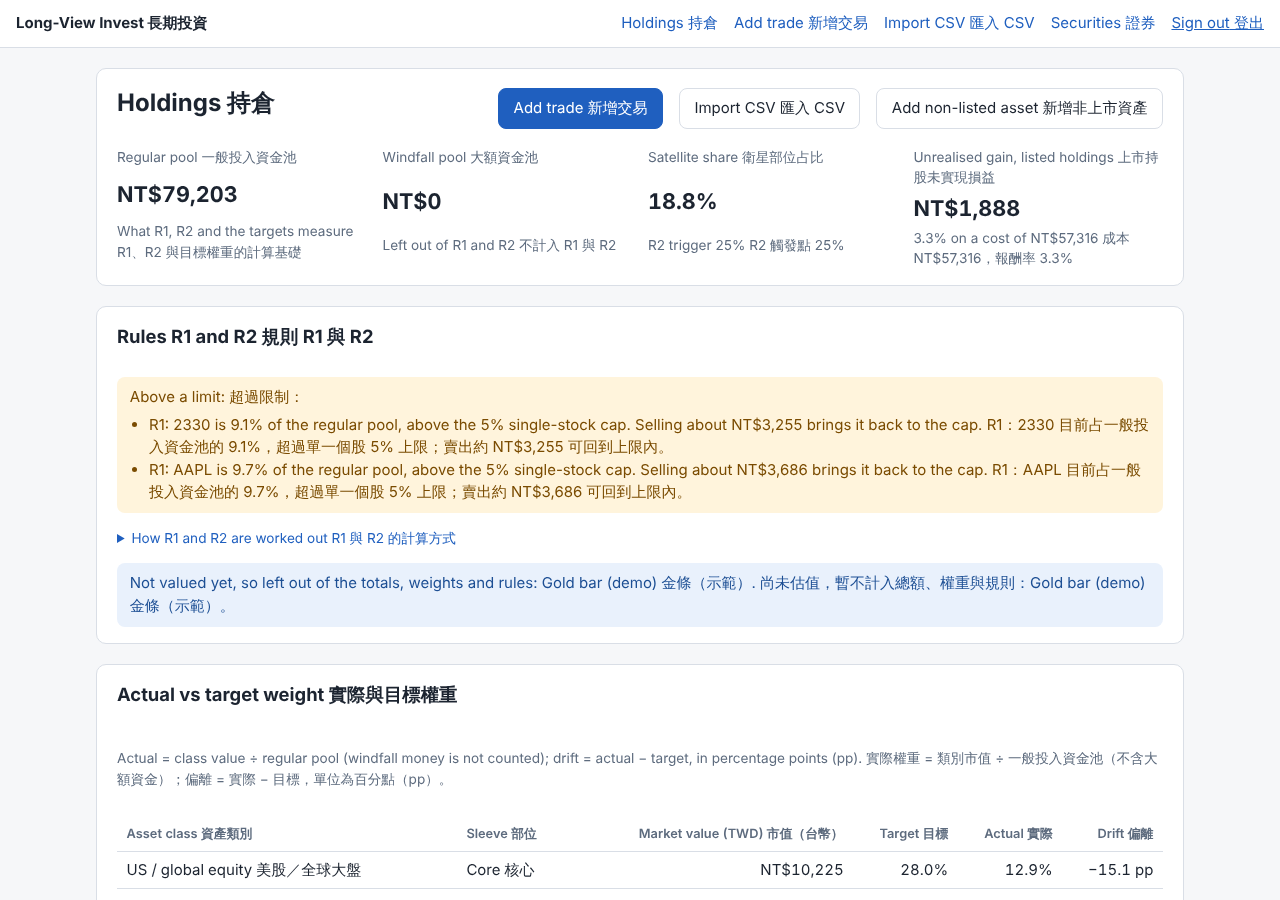
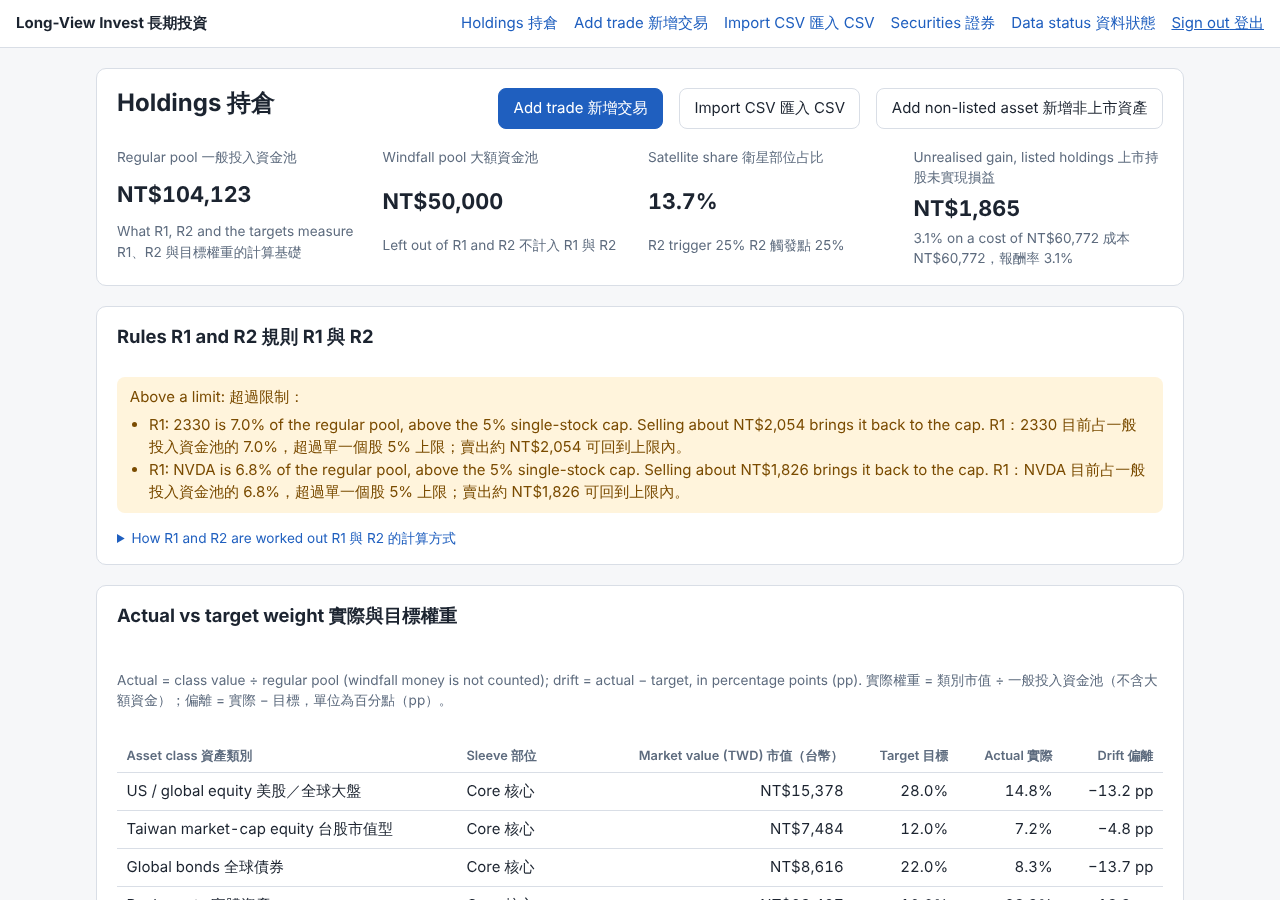
Run the nightly job in the e2e check; document step 4
- The e2e check now covers trade-date FX rates and the data status
  page, then runs the real nightly job against the stand-in twice (the
  second time as on GitHub Actions, checking its log names no ticker)
  and checks the app shows what it loaded. The stand-in gateway turns
  the secret key into service_role, as Supabase does.
- docs/nightly-job.md walks through the one-time setup: db push, the
  Supabase secret key, four GitHub secrets and a first run by hand.
- PRD Sections 6, 7 and 9 record the step 4 sources and decisions: the
  job runs in Actions rather than an Edge Function (2 s CPU limit on
  the free plan), Bank of Taiwan rates are the daily FX source, gold is
  the USD price at that rate, and AGGU now prices from iShares first.
- README status, features and screenshots updated.

Claude-Session: https://claude.ai/code/session_017YS6qWTrWDxK6iJxvtdga9

diff --git a/docs/nightly-job.md b/docs/nightly-job.md
@@ -1,0 +1,117 @@
+# 每夜價格排程 Nightly price job
+
+第一階段第 4 步（PRD 第 11 節）：每晚自動把收盤價、臺灣銀行匯率和金價寫進你的 Supabase，App 用它們計算市值。每次執行的結果記在 `job_runs` 資料表，App 的「資料狀態」頁看得到。
+
+Phase 1, step 4: every night GitHub Actions loads daily closes, Bank of Taiwan exchange rates and the gold price into Supabase. Each run is recorded in `job_runs` and shown on the app's Data status page.
+
+## 它怎麼運作 How it works
+
+- **時間**：每晚台北時間約 22:23（GitHub 有時會晚幾分鐘才開始）。這時台股已收盤、臺銀已公布當天匯率，前一個美股交易日的收盤價與 AGGU 的淨值也都已公布。
+- **在哪裡跑**：GitHub Actions，也就是 GitHub 提供的雲端電腦，公開 repo 免費。排程設定在 `.github/workflows/nightly.yml`，程式在 `scripts/nightly.ts`。
+- **抓多久的資料**：每晚重新載入最近 3 年（`config` 表 `var` 的 `lookback_years`，風險值卡片要用）的每日收盤價。因為每次除息後，過去的「還原收盤價」會整段改變，整段重抓最簡單也最正確。第一次執行要下載 AGGU 的 25 MB 基金檔案取得歷史淨值，會比較久；之後每晚約 1–2 分鐘。
+- **失敗時**：App 沿用最後一次成功載入的價格；連續 2 晚失敗（`rules` 表 `DATA_FAILURE` 的門檻）就在持倉頁顯示警示。推播通知要等第 10 步。
+
+It runs at about 22:23 Taipei time, reloads the last three years of closes each night (dividend adjustments change past adjusted closes), keeps the last good prices when a night fails, and flags two misses in a row.
+
+### 資料來源 Sources
+
+每種資料都有一個備援來源（PRD 第 9 節「免費資料中斷」）。
+
+| 資料 Data | 主要來源 Primary | 備援 Fallback |
+| --- | --- | --- |
+| 台股、台股 ETF | FinMind 每日收盤價，加上除權息結果算出還原收盤價 | 證交所 OpenAPI（只有最新一天） |
+| 美股、美國 ETF | FinMind 美股價格（含還原收盤價） | Alpha Vantage，只補缺的日子（選填） |
+| AGGU（倫敦） | iShares 官網的每日淨值 | Alpha Vantage AGGU.LON 週線（選填） |
+| 美元匯率 USD/TWD | 臺灣銀行牌告（經 FinMind），即期買入與賣出的中間值 | FRED（每週公布、晚幾天） |
+| 黃金（台幣） | 國際金價（FinMind，每盎司美元）× 當天臺銀美元匯率 | 你在 App 手動輸入的估值 |
+
+黃金每克台幣價格 = 每盎司台幣價格 ÷ 31.1035。臺銀的黃金牌價網頁會擋程式（第 1 步資料來源檢查），所以改用國際金價換算；銀行實際回收價通常略低一點。
+
+## 設定步驟 Setup（只需一次，約 15 分鐘）
+
+請在這個 PR 合併之後再做。
+
+### 1. 更新資料庫 Update the database
+
+在 Mac 的 Terminal、`invest` 資料夾執行：
+
+```bash
+git checkout main && git pull
+npm install
+npx supabase db push
+npm run check:supabase
+```
+
+- `npx supabase db push` 會列出 **2 個新的 migration**，輸入 `Y` 套用：
+  - `job_runs`：記錄每晚排程結果的資料表。只有你看得到；只有排程能寫入。
+  - `fx_trade_date_rates`：在 `config` 表的 `fx_rate_check` 加上 `max_age_days`（10 天）。之後新增交易與 CSV 匯入會預設帶入**交易日當天**的匯率；當天沒有（週末、假日）就往前找，最多 10 天。這個修改也會出現在 App 的修改紀錄裡。
+- `npm run check:supabase`：應該看到 **25 項全部 ✅**（多了 `job_runs`，陌生人一樣讀不到）。
+
+`db push` adds the `job_runs` table and the trade-date FX setting; the check then shows 25 passes.
+
+### 2. 複製 Supabase 的 secret key
+
+排程要寫入價格，需要 Supabase 的 **secret key**。它可以略過 row-level security、讀寫所有資料，所以**只放在 GitHub 的 secret 設定**：不要貼進 `NEXT_PUBLIC_` 開頭的變數、Vercel、聊天訊息或任何會進 git 的檔案。
+
+1. 打開 <https://supabase.com/dashboard>，進入你的專案，點左下 **Project Settings → API Keys**。
+2. 找到 **Secret keys** 區塊。每個專案都有一把名為 `default` 的 key；建議另外新增一把只給排程用（新增按鈕，名稱填 `github_nightly`）。之後如果懷疑外洩，只要刪掉這一把，不影響其他東西。介面不同找不到新增按鈕時，用 `default` 那把也可以。
+3. 按該把 key 旁的複製圖示（以 `sb_secret_` 開頭），下一步馬上貼上。
+
+### 3. 把值存進 GitHub secrets
+
+1. 打開 <https://github.com/GoatC/Invest>，點上方 **Settings** → 左側 **Secrets and variables → Actions** → **Secrets** 分頁 → **New repository secret**。
+2. 一次新增一個。**Name** 要完全照抄（大寫、底線），**Secret** 貼上值，按 **Add secret**：
+
+| Name | 值 Value | 從哪裡拿 Where from |
+| --- | --- | --- |
+| `SUPABASE_URL` | `https://<project-ref>.supabase.co` | 和 `.env.local` 裡的 `NEXT_PUBLIC_SUPABASE_URL` 一樣 |
+| `SUPABASE_SECRET_KEY` | `sb_secret_...` | 第 2 步複製的 |
+| `FINMIND_TOKEN` | FinMind 的 token | `.env.local` 裡同名的那一行（第 1 步資料來源檢查用過） |
+| `ALPHAVANTAGE_API_KEY` | Alpha Vantage 的 key | 選填：只在 FinMind 或 iShares 失敗時當備援 |
+
+- 存進去之後 GitHub 不會再顯示內容（只能覆蓋），執行紀錄裡也會自動遮住。
+- repo 是公開的，但 secrets 不公開：只有這個 repo 自己的排程用得到，別人 fork 你的 repo 也拿不到。
+
+### 4. 手動執行一次 Run it once by hand
+
+1. 在 GitHub repo 上方點 **Actions** 分頁。
+2. 左側選 **Nightly prices 每夜價格** → 右邊 **Run workflow** → Branch 選 `main` → 按綠色的 **Run workflow**。
+3. 等 2–5 分鐘（第一次最久）。綠色勾勾＝成功；紅色叉叉＝失敗，點進去看「Load prices, FX rates and gold」那一步的訊息，對照下面的問題排除。
+
+公開 repo 的執行紀錄任何人都看得到，所以紀錄裡只寫數量（例如「載入 13 檔證券、3 組匯率」），不寫你追蹤哪些代號；明細只在 App 裡。
+
+### 5. 在 App 確認 Check in the app
+
+在 Mac 上執行 `npm run dev`，登入後：
+
+- 上方選單 **資料狀態**：應該寫著「每夜價格排程最後一次於台北時間 … 執行，資料全部載入」，每檔證券都有收盤日與來源。
+- **持倉**：市值下方顯示收盤日；實體黃金改以每夜金價計算，不再標 ＊。
+- **新增交易**：選了美股代號後，匯率會自動帶入交易日當天的匯率，下方會寫出是哪一天的匯率。你自己輸入的匯率不會被覆蓋。
+
+之後每晚自動執行，不需要再做任何事。
+
+Run it once from the Actions tab, then check the Data status page: every security should show a recent close and its feed.
+
+## 平常要注意的事 Things to know
+
+- **失敗通知**：失敗的執行在 Actions 分頁會是紅色，GitHub 也可能寄 email 通知；但請以 App 為準：連續 2 晚失敗時，持倉頁會顯示警示（門檻在 `rules` 表 `DATA_FAILURE` 的 `failures`，可以自己改）。
+- **60 天規則**：公開 repo 如果連續 60 天沒有任何新的 commit，GitHub 會自動暫停排程。這時 App 會顯示「已連續 N 晚未成功」；到 **Actions → Nightly prices 每夜價格** 按 **Enable workflow** 就會恢復。
+- **Supabase 不會被暫停**：免費專案約 7 天沒有活動會被暫停；每晚的讀寫就是活動，所以只要排程在跑，專案就不會睡著。
+- **費用**：GitHub Actions 對公開 repo 免費；FinMind 免費額度每小時 600 次，每晚大約用 20 次。
+- **為什麼不用 Supabase Edge Function**：PRD 原本規劃由 GitHub Actions 呼叫 Edge Function，但免費方案的 Edge Function 每次只能用 2 秒 CPU、最長 150 秒，不夠處理 3 年的價格和 AGGU 的 25 MB 檔案。改成直接在 GitHub Actions 執行，每次都有紀錄可查，也和測試用的是同一套程式。代價是 secret key 要存在 GitHub secrets（加密保存）。這個決定記在 PRD 第 6、9 節。
+
+## 問題排除 Troubleshooting
+
+| 看到的訊息 Message | 原因與處理 Fix |
+| --- | --- |
+| `Missing SUPABASE_URL, …` | 第 3 步的 secret 漏了或名稱打錯，重新新增 |
+| `reading the database: Invalid API key` | `SUPABASE_SECRET_KEY` 貼錯：要 `sb_secret_` 開頭，不是 publishable key |
+| `job_runs` 找不到資料表，或持倉頁寫「無法讀取每夜排程狀態」 | 第 1 步的 `npx supabase db push` 還沒執行 |
+| `FinMind …: Your level is register …`、額度用完 | FinMind token 錯了，或這一小時的額度用完；隔天會自動重試 |
+| 資料狀態頁某一檔一直「尚未載入」 | 代號可能和 FinMind 用的不同（例如美股 ETF 已下市）；把資料狀態頁的錯誤訊息貼給 Claude |
+
+## 在 Mac 上手動執行 Run it on your Mac (optional)
+
+平常不需要，用上面第 4 步的按鈕即可。真的要在 Mac 上跑：在 `.env.local` 加上 `SUPABASE_SECRET_KEY=sb_secret_...`（`FINMIND_TOKEN` 已經在裡面），再執行 `npm run nightly`。`.env.local` 不會進 git，但用完可以把那一行刪掉。
+
+`npm run nightly` runs the job with `.env.local`, which then needs `SUPABASE_SECRET_KEY`; locally it prints every ticker, while on GitHub Actions it prints counts only.

diff --git a/README.md b/README.md
@@ -36,24 +36,28 @@ Built phase by phase from [the product spec](docs/PRD.md); a phase starts only a
 | 1. Check every free data source 免費資料來源檢查 | ✅ [report 報告](reports/source-check/report.md) |
 | 2. Database schema, row-level security, demo data 資料庫結構、權限、示範資料 | ✅ |
 | 3. Holdings entry and broker CSV import 持倉登錄與券商 CSV 匯入 | ✅ |
-| 4. Nightly prices and FX 每夜價格與匯率 | next 下一步 |
-| 5–11. Performance, allocation donuts, VaR, compounding calculator, rules engine and proposals, Web Push and the weekly dashboard, fee and tax drag 績效、配置圓餅圖、風險值、複利計算機、規則引擎與提案、推播與每週儀表板、費用與稅務 | planned 規劃中 |
+| 4. Nightly prices and FX 每夜價格與匯率 | ✅ [setup 設定](docs/nightly-job.md) |
+| 5. NAV snapshots and F18 performance 淨值快照與真實績效 | next 下一步 |
+| 6–11. Allocation donuts, VaR, compounding calculator, rules engine and proposals, Web Push and the weekly dashboard, fee and tax drag 配置圓餅圖、風險值、複利計算機、規則引擎與提案、推播與每週儀表板、費用與稅務 | planned 規劃中 |
 
 Phases 2 and 3 add security analysis (CAPM, valuation, regression, red flags), the windfall planner, Monte Carlo, the efficient frontier, stress tests and Brinson attribution. 第二、三階段加入證券分析、大額資金分批、蒙地卡羅、效率前緣、壓力測試與 Brinson 歸因。
 
 ## What works today 目前的功能
 
 - **Holdings 持倉總覽**: regular and windfall pools, R1 / R2 status with the trim each needs, actual vs target weight per asset class, and every position at weighted-average cost with its TWD value and unrealised gain. The R1 / R2 figures expand to show their formulas and inputs, and the other figures are defined under their tables. 一般與大額資金池、R1／R2 狀態與所需減碼金額、各資產類別的實際與目標權重、每檔持股的平均成本、台幣市值與未實現損益；R1／R2 的數字可展開查看公式與輸入值，其他數字的定義寫在表格下方。
-- **Trade entry 交易登錄**: currency and FX rate filled in from the security, a live R1 / R2 preview that warns without blocking, and a refusal when a sell exceeds the holding. 依證券自動帶入幣別與匯率，即時預覽 R1／R2（只提醒不阻擋），賣出超過持有數量時拒絕儲存。
-- **Broker CSV import 券商 CSV 匯入**: UTF-8 or Big5 files, title lines above the header, ROC (民國) dates, column mapping remembered per broker, and trades already saved are skipped. 支援 UTF-8 與 Big5、標題列在上方的檔案、民國日期；欄位對應依券商記住，已存在的交易自動略過。
-- **Non-listed assets 非上市資產**: physical gold in grams, savings and money-market balances in TWD. 實體黃金以克數、活存與貨幣基金以台幣餘額記錄。
+- **Trade entry 交易登錄**: currency filled in from the security and the FX rate from the trade date's Bank of Taiwan rate, a live R1 / R2 preview that warns without blocking, and a refusal when a sell exceeds the holding. 依證券自動帶入幣別、依交易日帶入臺灣銀行匯率，即時預覽 R1／R2（只提醒不阻擋），賣出超過持有數量時拒絕儲存。
+- **Broker CSV import 券商 CSV 匯入**: UTF-8 or Big5 files, title lines above the header, ROC (民國) dates, column mapping remembered per broker, each row's trade-date FX rate when the file has none, and trades already saved are skipped. 支援 UTF-8 與 Big5、標題列在上方的檔案、民國日期；欄位對應依券商記住，檔案沒有匯率時帶入各列交易日的匯率，已存在的交易自動略過。
+- **Non-listed assets 非上市資產**: physical gold in grams, valued nightly at the gold price in TWD, and savings and money-market balances in TWD. 實體黃金以克數記錄、每夜以台幣金價估值；活存與貨幣基金以台幣餘額記錄。
+- **Nightly prices 每夜價格**: a GitHub Actions job loads daily closes (dividend-adjusted), Bank of Taiwan exchange rates and the gold price, with one fallback feed each; the Data status page shows every run and the newest close per security, and two missed nights in a row raise an alert. GitHub Actions 每夜載入每日收盤價（含除息還原）、臺灣銀行匯率與金價，每種資料都有備援來源；「資料狀態」頁列出每次執行與各證券最新收盤價，連續兩晚失敗即顯示警示。
 - **Securities and edit history 證券與修改紀錄**: every entry can be edited or deleted, and the database logs each change, deleted entries included. 每筆資料都能修改或刪除，資料庫會記錄每次變更，包含已刪除的資料。
 
 ![CSV import preview: every row explained, unknown tickers can be added on the spot](docs/images/import-preview.png)
 
+![Data status after a nightly run: the newest close per security, its date and feed](docs/images/data-status.png)
+
 ## How it is built 技術架構
 
-- **Next.js** (App Router, server actions) with **Supabase** (Postgres, Auth, Data API). Nightly jobs will run on **GitHub Actions**, and alerts will use **Web Push**. Next.js 搭配 Supabase；每夜排程使用 GitHub Actions，推播使用 Web Push。
+- **Next.js** (App Router, server actions) with **Supabase** (Postgres, Auth, Data API). Nightly jobs run on **GitHub Actions** and write with a secret key kept in GitHub's encrypted secrets; alerts will use **Web Push**. Next.js 搭配 Supabase；每夜排程在 GitHub Actions 執行，以存放在 GitHub 加密 secrets 的金鑰寫入；推播使用 Web Push。
 - **Single owner, enforced by the database**: row-level security on every table lets only the one owner account in; strangers holding the public key are refused, which `npm run check:supabase` verifies from outside. 由資料庫保證只有一位擁有者：每張表都開啟 row-level security；持有公開金鑰的陌生人一律被拒，可用 `npm run check:supabase` 從外部驗證。
 - **Money in trade currency plus the day's FX rate, reported in TWD.** 金額以交易幣別加當日匯率儲存，以台幣呈現。
 - **Free data only**, checked source by source in step 1. 只使用免費資料，第 1 步已逐一檢查。
@@ -64,6 +68,7 @@ Phases 2 and 3 add security analysis (CAPM, valuation, regression, red flags), t
 
 1. [Set up Supabase](docs/supabase-setup.md) once: create the project, apply the schema, create the owner account. 先[設定 Supabase](docs/supabase-setup.md)：建立專案、套用資料庫結構、建立擁有者帳號。
 2. [Run the app](docs/running-the-app.md): `npm install`, then `npm run dev`. 再[執行 App](docs/running-the-app.md)。
+3. [Turn on the nightly job](docs/nightly-job.md): four GitHub secrets, then one run by hand. 最後[啟用每夜排程](docs/nightly-job.md)：設定 4 個 GitHub secrets，再手動執行一次。
 
 ## Tests 測試
 
@@ -71,18 +76,19 @@ Phases 2 and 3 add security analysis (CAPM, valuation, regression, red flags), t
 | --- | --- |
 | `npm test` | Model, CSV and form unit tests with the spec's acceptance values, plus the whole schema and its row-level security rebuilt in an in-memory Postgres (PGlite) 單元測試（含規格書驗收值），以及在記憶體 Postgres 中重建整個資料庫並檢查權限 |
 | `npm run typecheck` | TypeScript across the app, scripts and tests 型別檢查 |
-| `npm run test:e2e` | The built app against a local Supabase stand-in, driven in Chromium ([details](tests/e2e/README.md)) 以 Chromium 實際操作連到本機 Supabase 替身的 App |
+| `npm run test:e2e` | The built app against a local Supabase stand-in, driven in Chromium, then the real nightly job against the same stand-in ([details](tests/e2e/README.md)) 以 Chromium 實際操作連到本機 Supabase 替身的 App，再對同一個替身執行真正的每夜排程 |
 
 ## Repository layout 專案結構
 
 | Path 路徑 | Contents 內容 |
 | --- | --- |
 | `app/` | Pages and server actions 頁面與伺服器動作 |
-| `lib/models/` | Positions, valuation and the R1 / R2 rules, as pure functions 持倉、估值與 R1／R2 規則（純函式） |
+| `lib/models/` | Positions, valuation, trade-date FX, data health and the R1 / R2 rules, as pure functions 持倉、估值、交易日匯率、資料狀態與 R1／R2 規則（純函式） |
 | `lib/csv/` | Statement reading, column mapping and the import plan 對帳單讀取、欄位對應與匯入計畫 |
 | `supabase/migrations/` | Schema, row-level security, reference data and change logs 資料庫結構、權限、參考資料與變更紀錄 |
 | `supabase/seed.sql` | Demo data for local use only 僅供本機使用的示範資料 |
-| `scripts/` | Data-source check and the outside-in Supabase check 資料來源檢查與 Supabase 外部檢查 |
+| `scripts/` | The nightly job and its feeds, the data-source check and the outside-in Supabase check 每夜排程與資料來源程式、資料來源檢查與 Supabase 外部檢查 |
+| `.github/workflows/` | The nightly schedule 每夜排程設定 |
 | `docs/` | Product spec and runbooks 產品規格與操作說明 |
 
 ## Data and privacy 資料與隱私

diff --git a/docs/running-the-app.md b/docs/running-the-app.md
@@ -20,7 +20,7 @@ npm run check:supabase
 - `npx supabase db push`：會列出 **2 個新的 migration**，輸入 `Y` 套用：
   - `latest_quotes`：「每檔最新價格」與「每個幣別最新匯率」兩個檢視表（view），持倉頁用它們計算市值。
   - `fx_rate_check`：匯率打錯字的警示門檻（預設 20%），存在 `config` 表，之後可以自己改。
-- `npm run check:supabase`：應該看到 **24 項全部 ✅**（比上次多了 2 個 view，陌生人同樣讀不到）。如果出現「找不到資料表，請先執行 db push」，代表上一行還沒成功。
+- `npm run check:supabase`：應該看到 **24 項全部 ✅**（比上次多了 2 個 view，陌生人同樣讀不到；第 4 步之後是 25 項）。如果出現「找不到資料表，請先執行 db push」，代表上一行還沒成功。
 
 `db push` adds two views for the newest price and FX rate, and the FX typo-check setting; the check then shows 24 passes.
 
@@ -42,16 +42,16 @@ Run `npm run dev`, open http://localhost:3000 and sign in with your Supabase acc
 
 持倉頁一開始是空的：示範資料只用在測試，不會送到你的專案。
 
-- **新增交易**：輸入代號後，幣別與最近一筆匯率會自動帶入；匯率請改成券商對帳單上的成交匯率。市場與部位（核心／衛星）由證券自動帶入。
+- **新增交易**：輸入代號後，幣別與交易日當天的匯率會自動帶入（每夜排程啟用後；之前是最近一筆匯率）；對帳單上有券商成交匯率時，請改成那個匯率。市場與部位（核心／衛星）由證券自動帶入。
   - 找不到代號：按「找不到？新增證券」，填名稱、市場、產品類別與資產類別後儲存，會回到新增交易。
   - 儲存前會即時檢查 R1（單一個股超過一般資金池 5%）與 R2（衛星部位超過 25%）：違反時只提醒，不會阻擋。
   - 賣出數量超過當時持有數量會被拒絕，通常代表漏記了一筆買進。
-- **黃金與現金**：按「新增非上市資產」。實體黃金以克數輸入，可填每克金價自動算出估值；高利活存與貨幣基金以台幣餘額輸入。
+- **黃金與現金**：按「新增非上市資產」。實體黃金以克數輸入；每夜排程啟用後，持倉頁會以每夜金價自動計算市值，表單裡的估值只在還沒有金價時使用。高利活存與貨幣基金以台幣餘額輸入。
 - **匯入 CSV**：
   1. 從券商網站下載成交明細，存成 CSV。
   2. 在「匯入 CSV」頁填券商名稱、選擇檔案。Big5 編碼、檔案上方的標題列都會自動判斷。
   3. 檢查欄位對應與每一列的預覽：股利、合計列會略過並說明原因；已經存在的交易會標示「已存在」，不會重複匯入。
-  4. 外幣交易如果檔案裡沒有匯率欄，請在「沒有匯率的列使用的匯率」填一個匯率。
+  4. 外幣交易如果檔案裡沒有匯率欄：「沒有匯率的列使用的匯率」留空，會帶入每一列交易日的匯率（匯率下方顯示是哪一天的）；也可以填一個匯率套用到整份檔案。
   5. 檔案裡有還沒新增的代號時，點「新增 XXX」（在新分頁開啟）新增後，回來按「重新檢查」。
   6. 按「匯入」。欄位對應會依券商名稱記住，下次選同一家券商就會自動套用。
 - **修改與刪除**：持倉頁最下方的交易紀錄、非上市資產都有「修改」連結；每次修改都留下紀錄，顯示在該筆資料頁面的最下方。
@@ -60,9 +60,9 @@ Add trades by hand or import a broker CSV (the column mapping is remembered per 
 
 ## 補充 Notes
 
-- 標著 ＊ 的金額是估計值：每夜價格排程（第一階段第 4 步）上線前，市值以你最近一筆交易的價格與匯率估算；黃金以你最後輸入的估值計算。
+- 標著 ＊ 的金額是估計值：每夜排程還沒載入的證券或幣別，暫以你最近一筆交易的價格與匯率估算；還沒有金價時，黃金以你最後輸入的估值計算。每夜排程的設定見 [每夜價格排程](nightly-job.md)。
 - R1／R2 的門檻來自 `rules` 表，匯率警示門檻來自 `config` 表的 `fx_rate_check`；都能在 Supabase 的 Table Editor 修改，不需要改程式。
 - 只有登入後的你看得到資料；畫面顯示「無法從資料庫讀取」時，多半是程式更新後還沒執行 `npx supabase db push`。
 - 如果 `npm run dev` 顯示 Node.js 版本太舊，請到 <https://nodejs.org> 安裝 LTS 版本後重開 Terminal。
 
-Figures marked * are estimates until the nightly price job (Phase 1, step 4) runs. Thresholds live in the `rules` and `config` tables, never in code. A "could not read" page usually means `npx supabase db push` is still to be run.
+Figures marked * are estimates until the nightly price job ([setup](nightly-job.md)) has loaded their price. Thresholds live in the `rules` and `config` tables, never in code. A "could not read" page usually means `npx supabase db push` is still to be run.

diff --git a/tests/e2e/README.md b/tests/e2e/README.md
@@ -4,9 +4,12 @@
 migrations and the demo seed, and walks through it in Chromium: sign-in, the holdings view and its
 R1 / R2 figures, adding, editing and deleting a trade, a refused oversized sell, gold and cash
 balances, adding a security, a Big5 broker-statement import (including an unknown ticker and a
-second import of the same file), a phone-width check of every page, and sign-out.
+second import of the same file), trade-date FX rates, the data status page, a phone-width check
+of every page, and sign-out. With a `FINMIND_TOKEN` in the environment it then runs the real
+nightly job (`scripts/nightly.ts`, live feeds) against the stand-in twice, the second time as on
+GitHub Actions, and checks what the app shows; `E2E_NIGHTLY=0` skips that part.
 
-`npm run test:e2e` 會建置 App，連到載入資料庫遷移與示範資料的本機 Supabase 替身，並以 Chromium 實際操作一遍：登入、持倉總覽與 R1／R2 數字、新增／修改／刪除交易、拒絕超賣、黃金與現金餘額、新增證券、Big5 券商對帳單匯入（含未知代號與重複匯入），以及手機寬度檢查與登出。
+`npm run test:e2e` 會建置 App，連到載入資料庫遷移與示範資料的本機 Supabase 替身，並以 Chromium 實際操作一遍：登入、持倉總覽與 R1／R2 數字、新增／修改／刪除交易、拒絕超賣、黃金與現金餘額、新增證券、Big5 券商對帳單匯入（含未知代號與重複匯入）、交易日匯率、資料狀態頁，以及手機寬度檢查與登出。環境變數有 `FINMIND_TOKEN` 時，接著以真實資料對替身執行兩次每夜排程（第二次模擬 GitHub Actions），並檢查 App 顯示的結果；設 `E2E_NIGHTLY=0` 可略過。
 
 ## What the stand-in is 替身的組成
 
@@ -18,10 +21,12 @@ on the machine, without Docker:
 | Database | PostgreSQL 16, with `stand-in/bootstrap.sql` creating the roles a Supabase project starts with |
 | Auth | Supabase Auth (GoTrue) `v2.177.0`, the release binary |
 | Data API | PostgREST `v12.2.3`, the release binary |
-| Gateway | `stand-in/gateway.mjs`: routes `/auth/v1` and `/rest/v1`, and turns the publishable key into the anon role |
+| Gateway | `stand-in/gateway.mjs`: routes `/auth/v1` and `/rest/v1`, and turns the publishable key into the anon role and the secret key into service_role |
 
-Every run uses a fresh database, a new random JWT secret, publishable key and owner password, and
-deletes the database at the end. Nothing touches the hosted project.
+Every run uses a fresh database, a new random JWT secret, publishable and secret key and owner
+password, and deletes the database at the end. Nothing touches the hosted project. The database
+also gets the seed's newest USD/TWD rate dated today, so the trade form's trade-date rate reads the
+same whatever day the check runs.
 
 每次執行都使用全新的資料庫與隨機產生的金鑰與密碼，結束時刪除資料庫；完全不會碰到雲端的 Supabase 專案。
 
